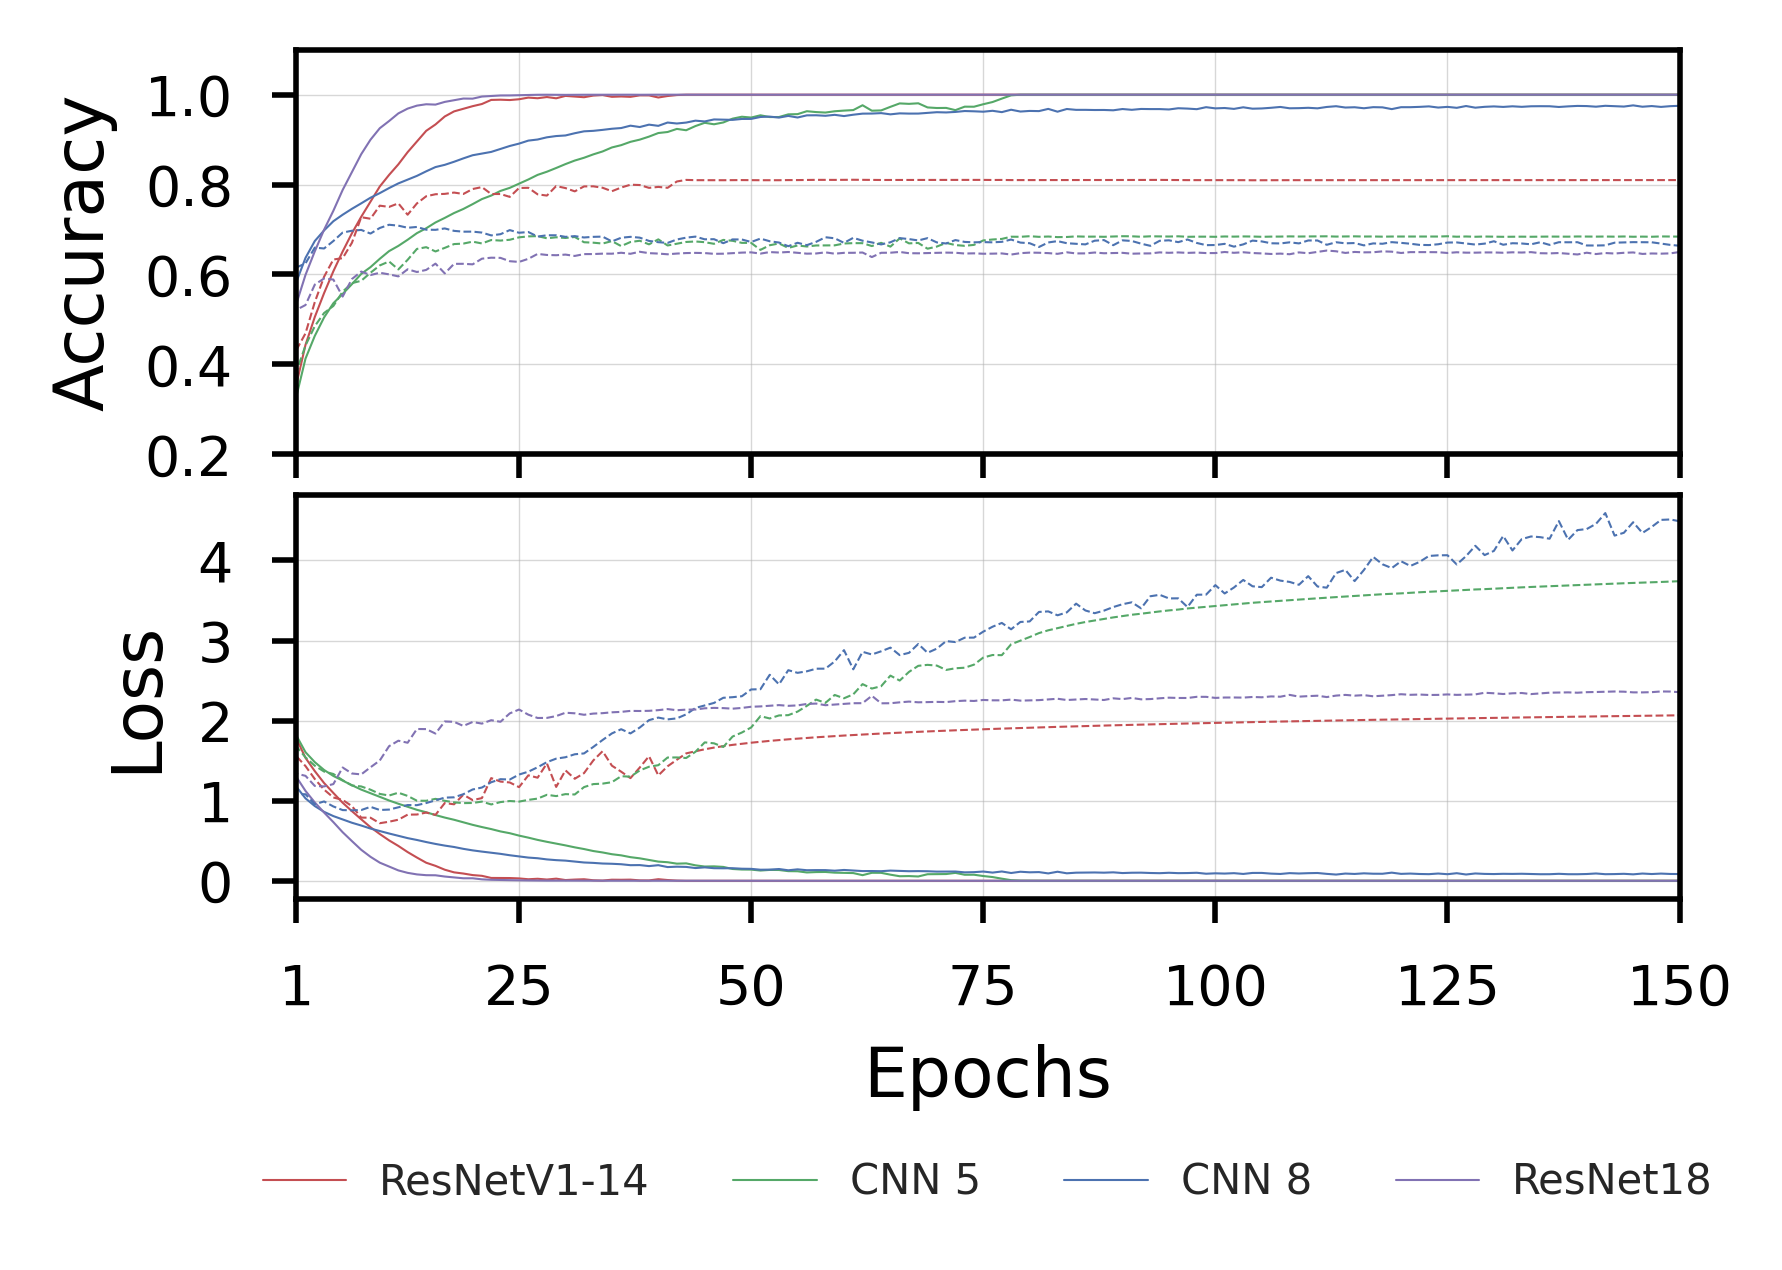
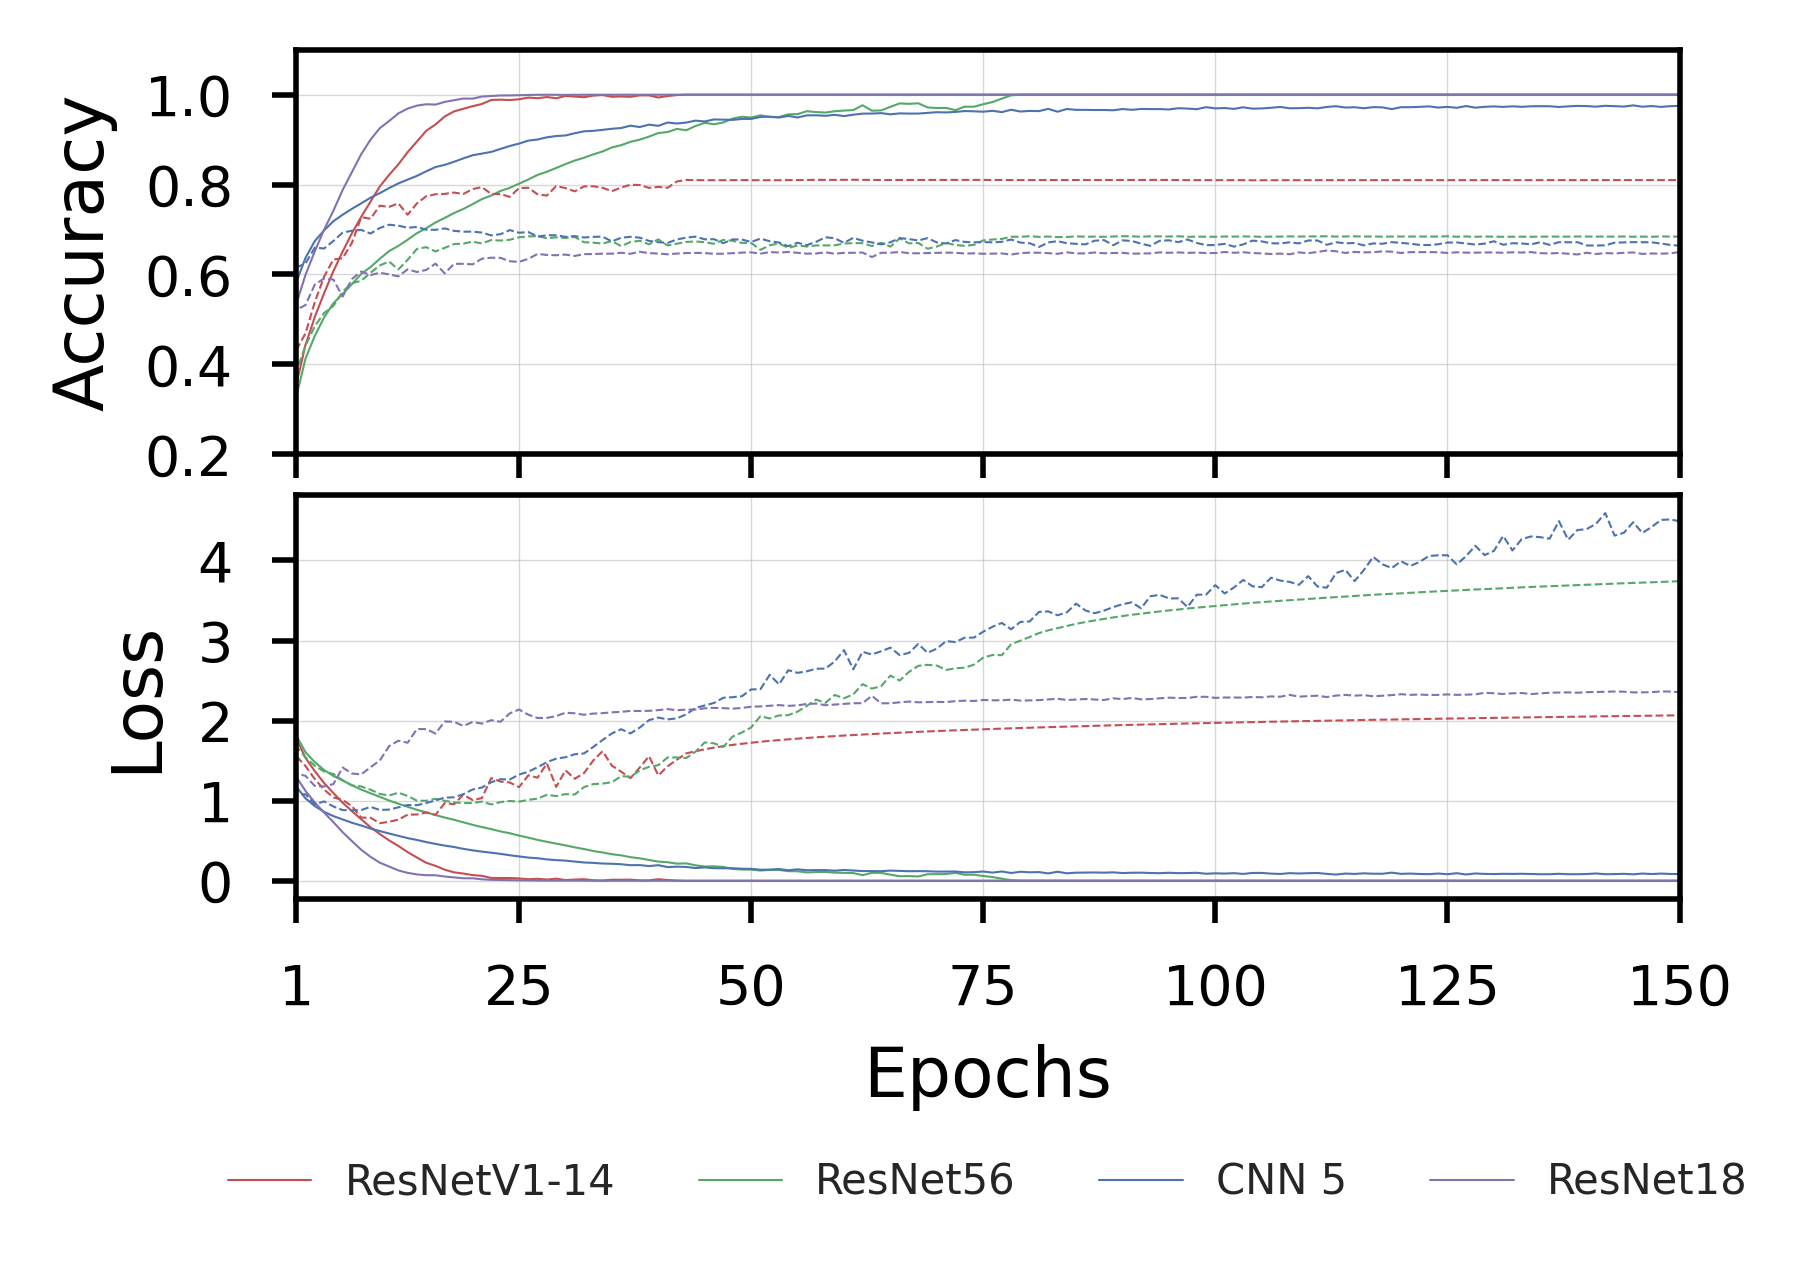
changed stats

diff --git a/graphs.py b/graphs.py
@@ -348,8 +348,8 @@ def make_loss():
     fig, ((ax1),(ax2)) = plt.subplots(2,1,figsize=set_size(516,fraction=0.5),gridspec_kw={'hspace':0.1})
     sea.set(style="whitegrid")
     sea.lineplot(ax=ax1,x="Step",y="train_acc",data=T1,linewidth=linsize,linestyle='-',color='r',label="ResNetV1-14")
-    sea.lineplot(ax=ax1,x="Step",y="train_acc",data=T2,linewidth=linsize,linestyle='-',color='g',label="CNN 5")
-    sea.lineplot(ax=ax1,x="Step",y="train_acc",data=T3,linewidth=linsize,linestyle='-',color='b',label="CNN 8")
+    sea.lineplot(ax=ax1,x="Step",y="train_acc",data=T2,linewidth=linsize,linestyle='-',color='g',label="ResNet56")
+    sea.lineplot(ax=ax1,x="Step",y="train_acc",data=T3,linewidth=linsize,linestyle='-',color='b',label="CNN 5")
     sea.lineplot(ax=ax1,x="Step",y="train_acc",data=T4,linewidth=linsize,linestyle='-',color='m',label="ResNet18")
 
     sea.lineplot(ax=ax1,x="Step",y="test_acc",data=T1,linewidth=linsize,linestyle='--',color='r')
@@ -1314,6 +1314,6 @@ def make_VIT000001():
 
 #make_VIT00001()
 
-make_T2GFIM()
+make_loss()
 
 #make_VIT()
